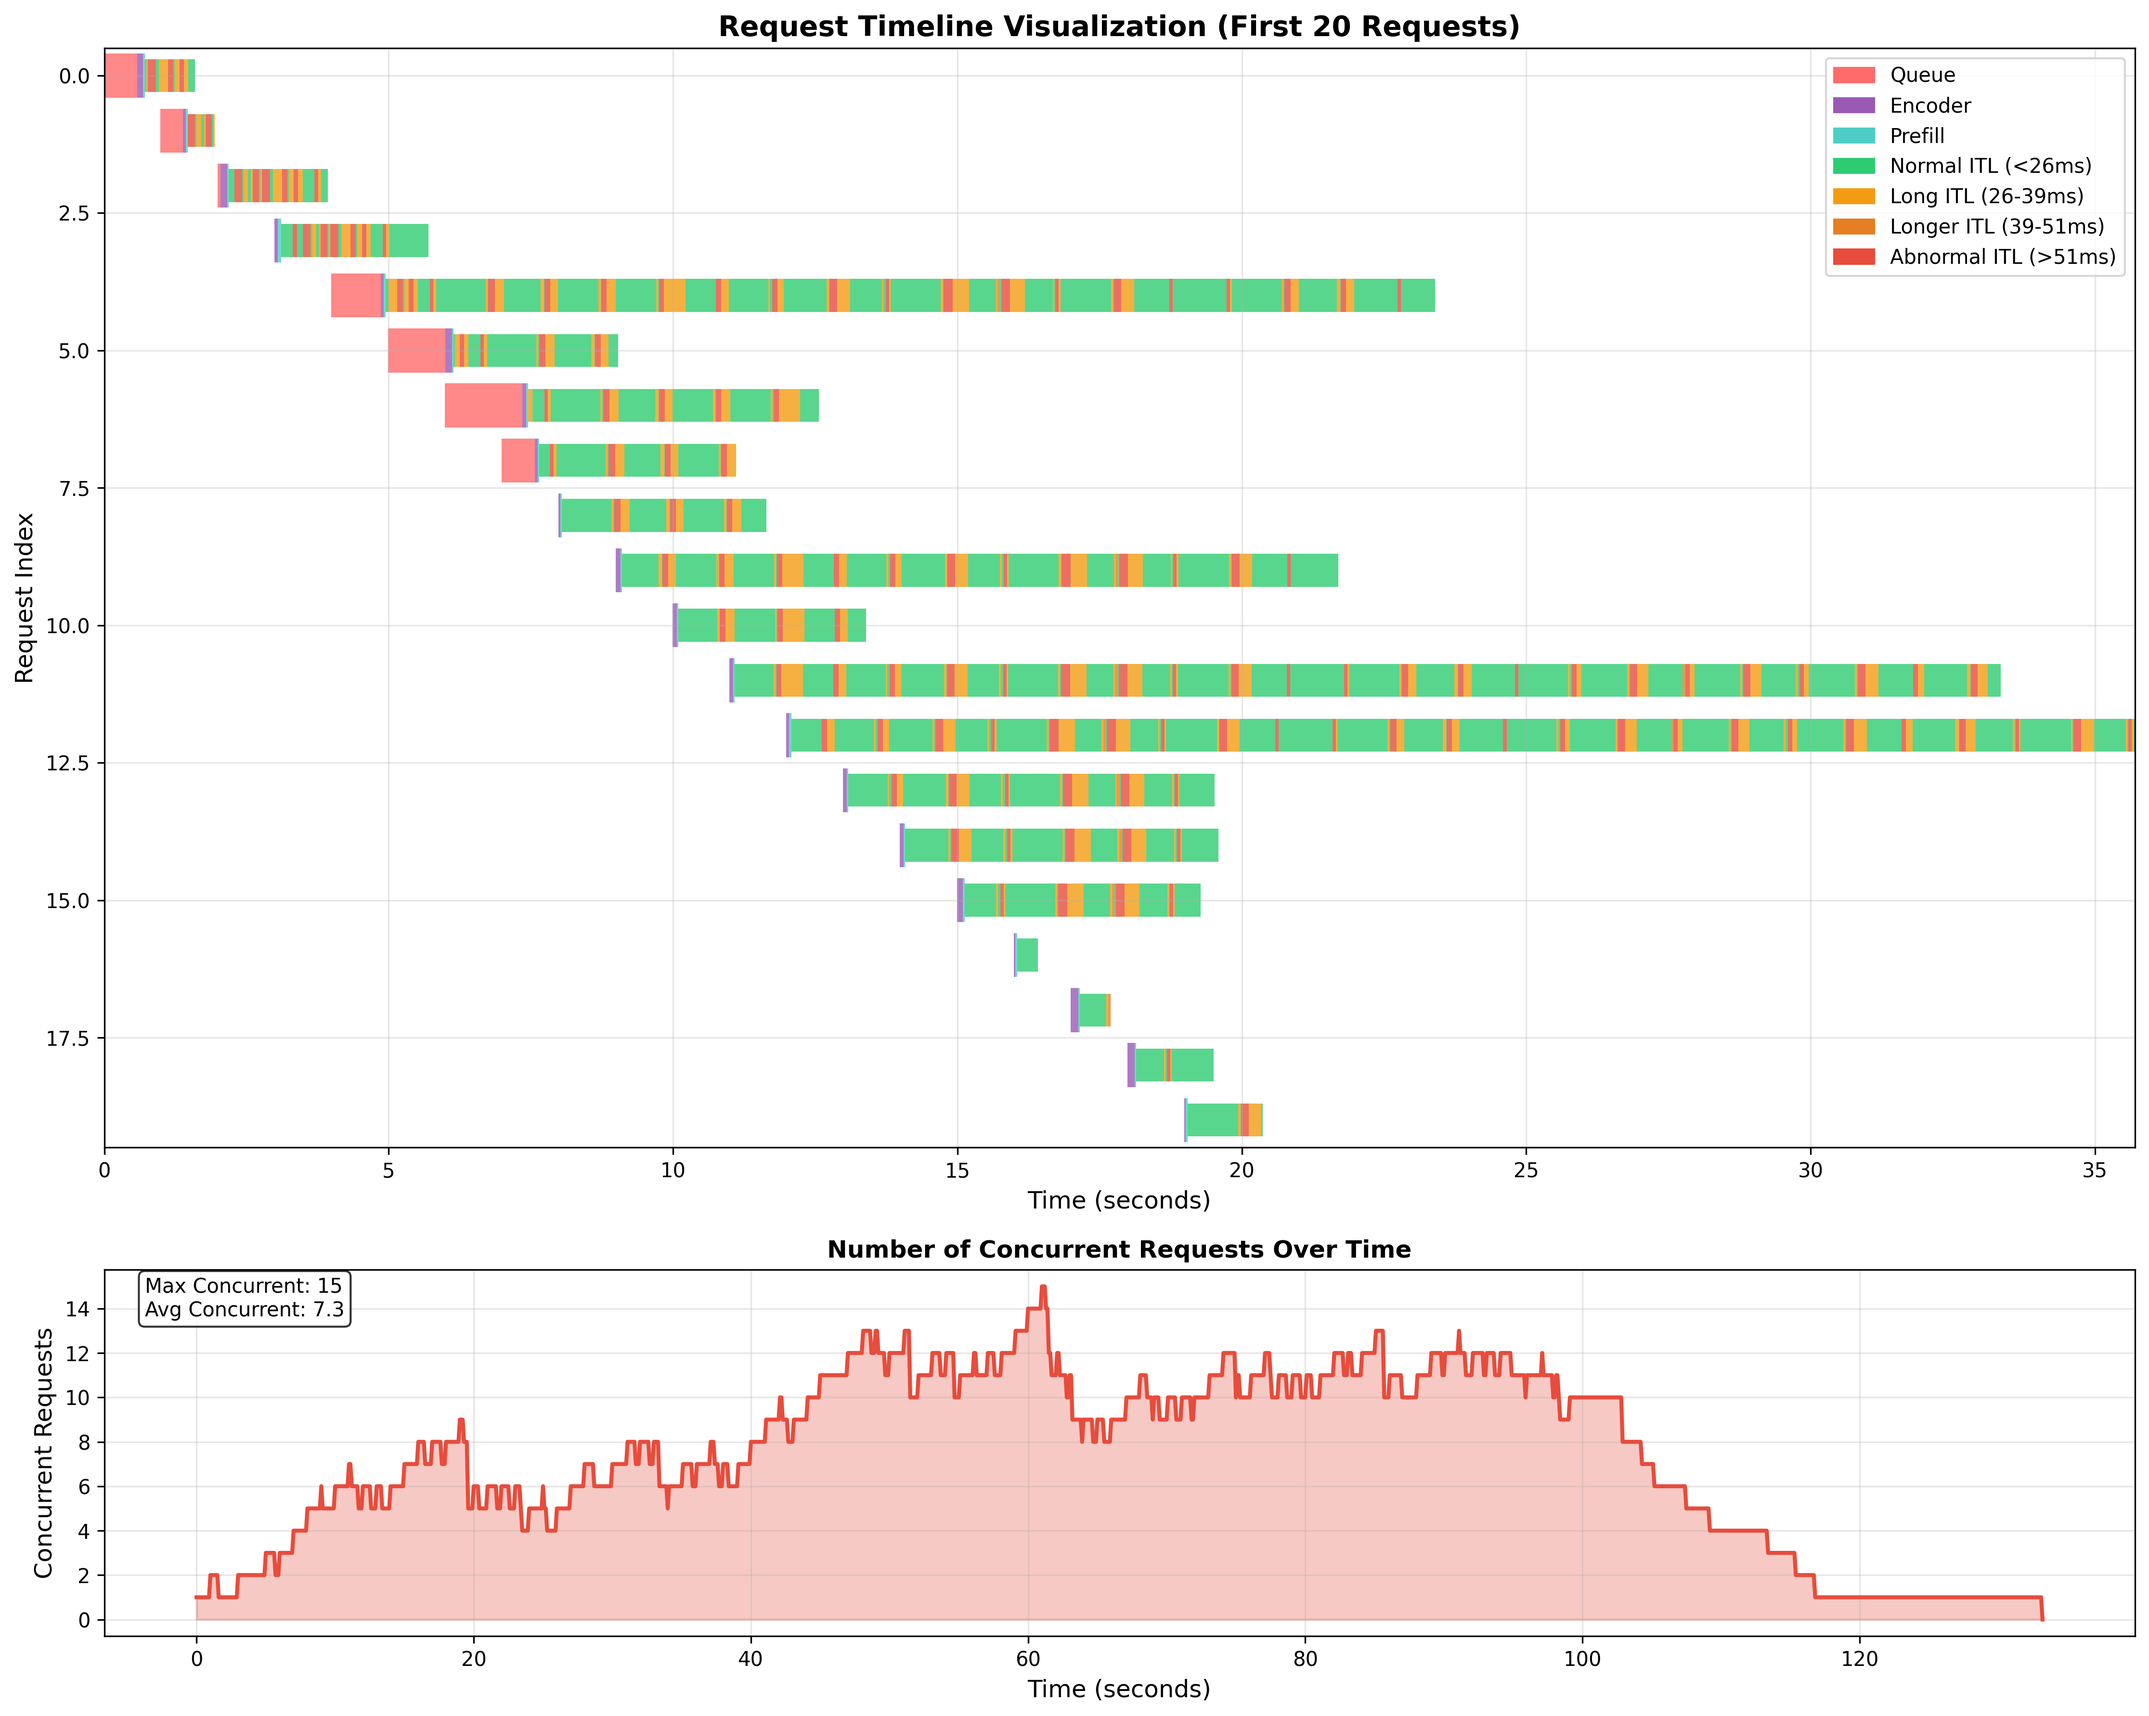
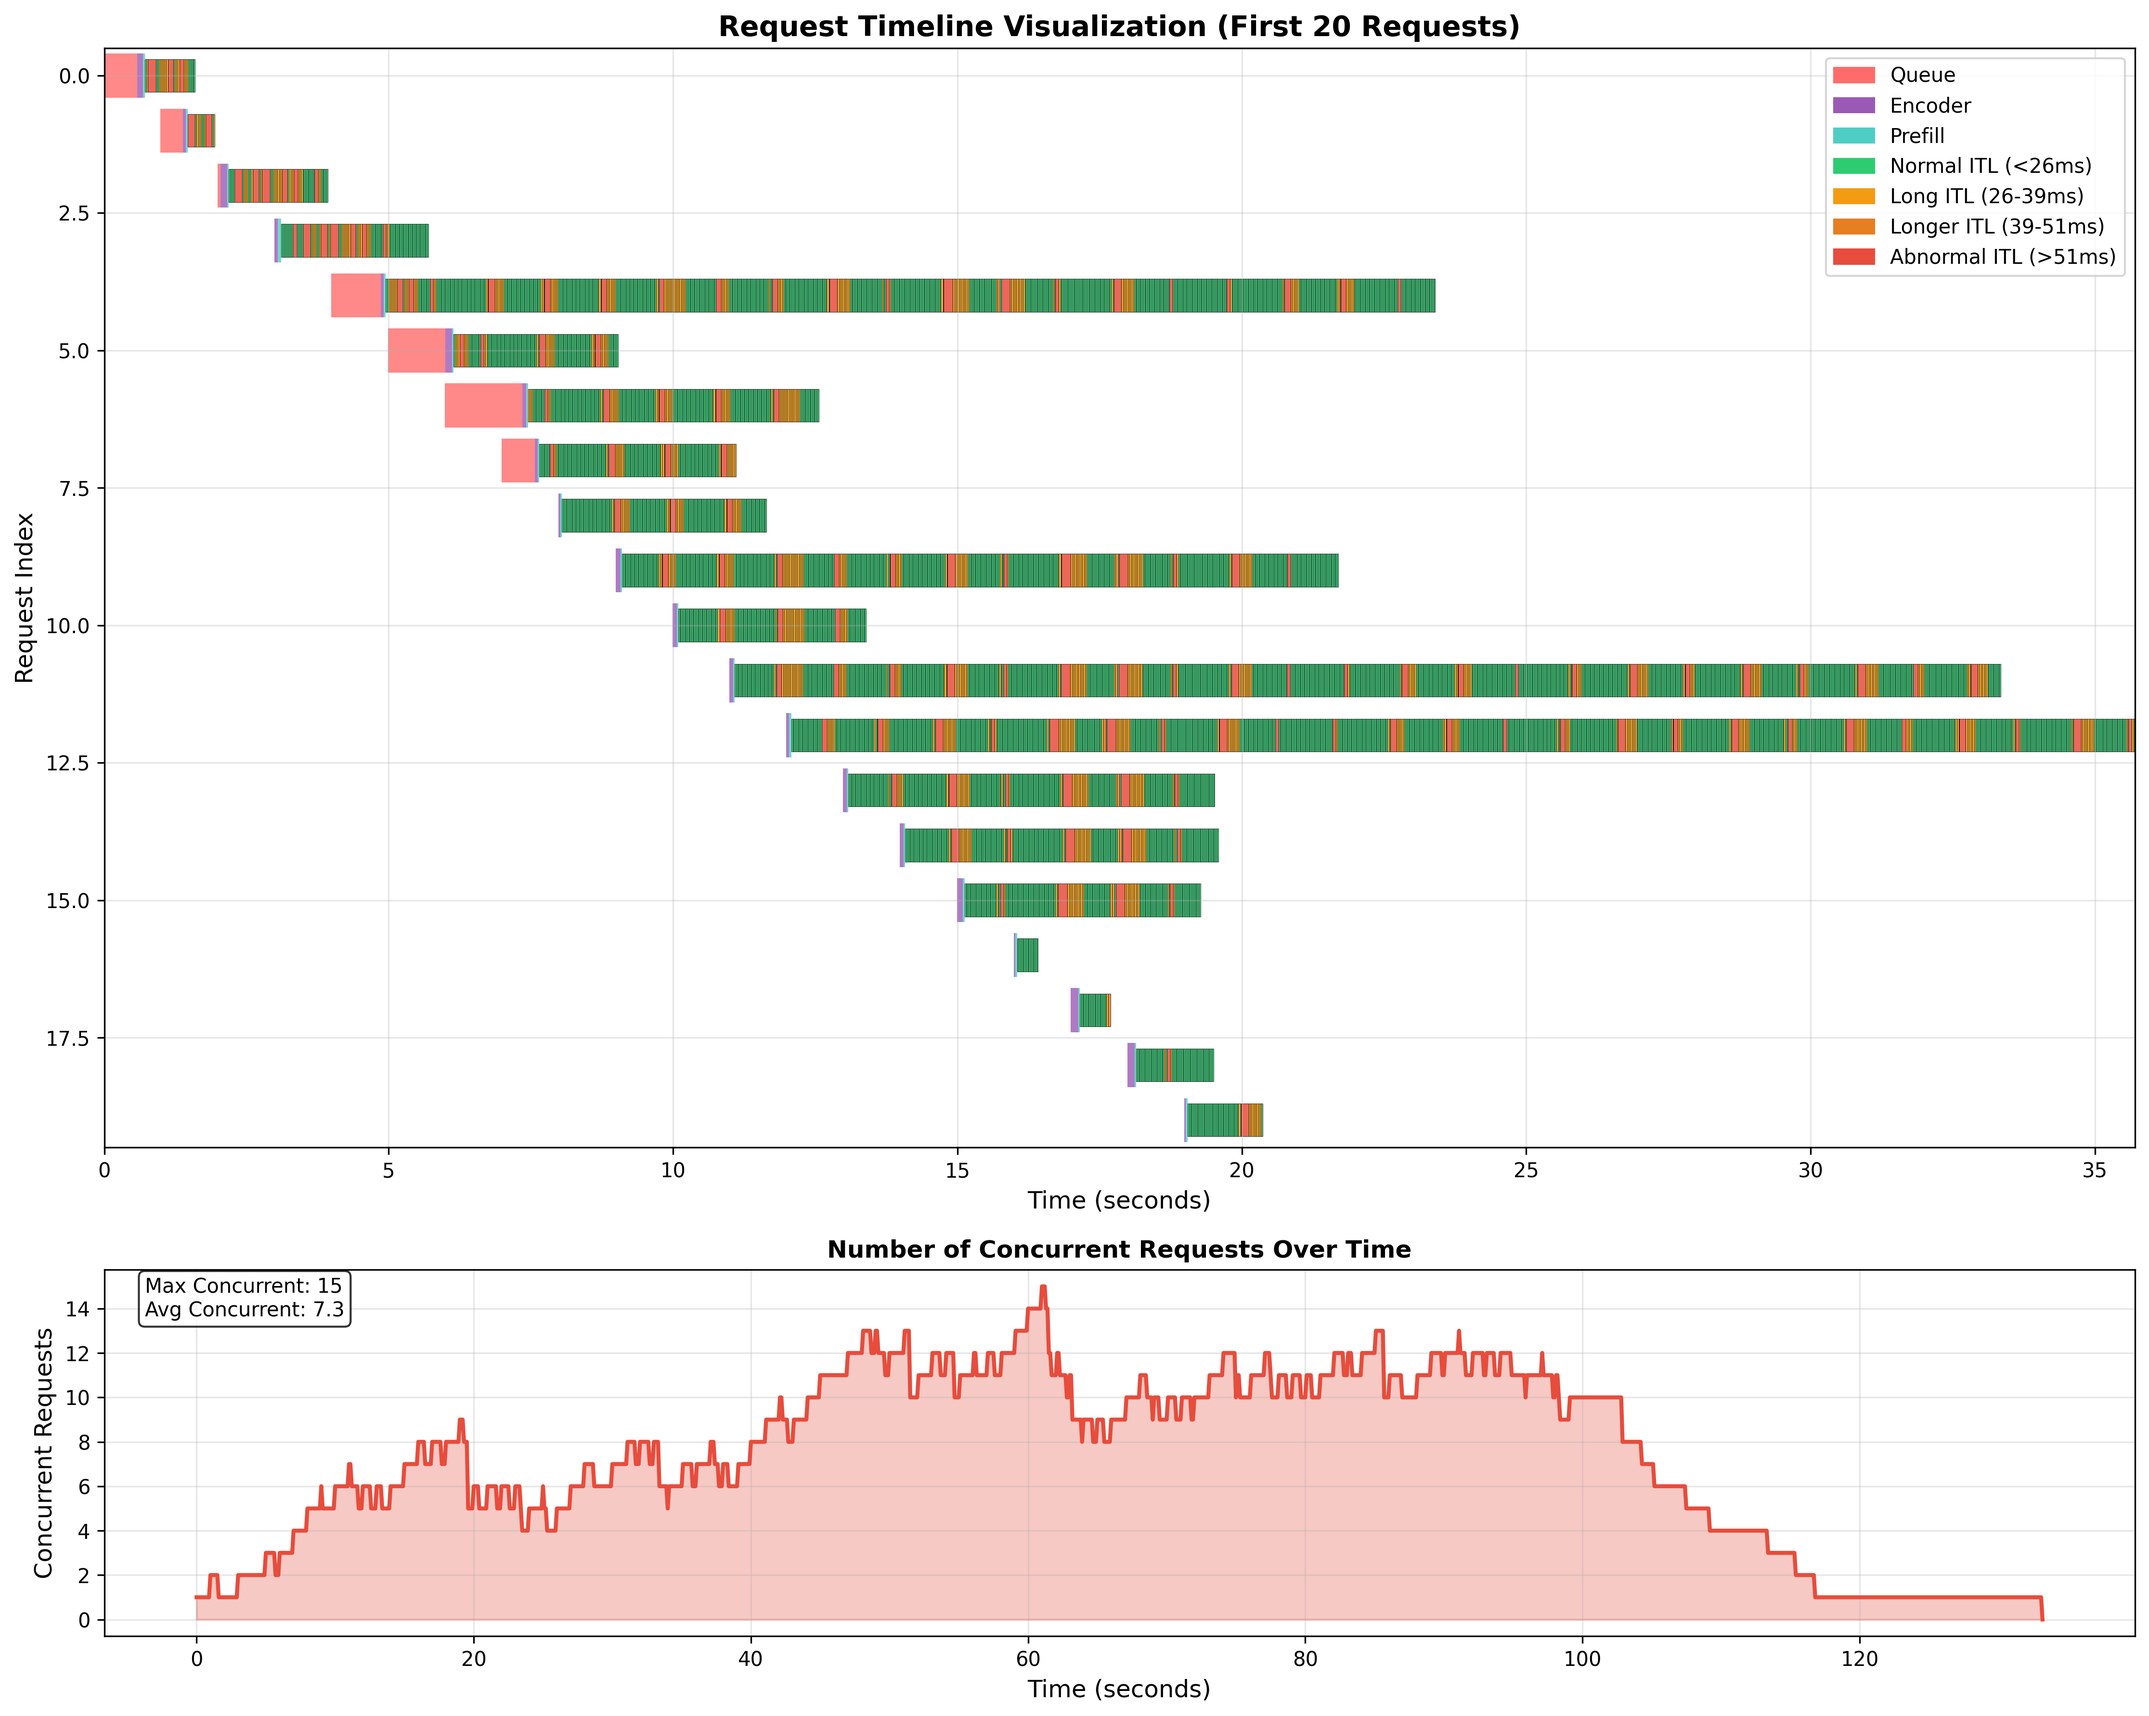
Enhance Gantt chart visualization in `request_timeline_visualizer.py` by adding edge color and adjusting alpha for token rectangles. Update `timeline_gantt.png` to reflect these changes.

diff --git a/vllm_metrics_toolkit/scripts/request_timeline_visualizer.py b/vllm_metrics_toolkit/scripts/request_timeline_visualizer.py
@@ -263,17 +263,21 @@ class RequestTimelineVisualizer:
             
             # Token生成（每个ITL作为单独的段，根据长度用不同颜色）
             prev_time = timeline.prefill_end
-            for j, token_time in enumerate(timeline.token_times):
+            for token_time in timeline.token_times:
                 itl_duration = token_time - prev_time
                 itl_color = self._get_itl_color(itl_duration)
                 
                 token_rect = patches.Rectangle(
                     (start_offset + prev_time, y_pos - 0.3),
                     itl_duration, 0.6,
-                    facecolor=itl_color, alpha=0.8
+                    facecolor=itl_color,
+                    edgecolor=(0, 0, 0, 0.5),
+                    linewidth=0.2,
+                    alpha=0.85
                 )
                 ax1.add_patch(token_rect)
                 prev_time = token_time
+            # 最后一个 token 段已通过边框体现分隔，无需额外线条
         
         # 设置甘特图样式
         ax1.set_xlim(0, max(t.start_time - global_start + t.total_duration for t in display_timelines))
@@ -382,12 +386,12 @@ class RequestTimelineVisualizer:
             
             # 每个Token的ITL（详细显示，根据长度用不同颜色）
             prev_time = timeline.prefill_end
-            for j, token_time in enumerate(timeline.token_times):
+            for token_time in timeline.token_times:
                 itl_duration = token_time - prev_time
                 itl_color = self._get_itl_color(itl_duration)
                 
                 ax.barh(y_pos, itl_duration, left=start_offset + prev_time, height=0.4,
-                       color=itl_color, alpha=0.8)
+                       color=itl_color, edgecolor=(0, 0, 0, 0.5), linewidth=0.2, alpha=0.85)
                 
                 # 在每个token段上标注ITL时间（智能阈值）
                 # 如果ITL超过平均值，就显示时间标注
@@ -398,6 +402,7 @@ class RequestTimelineVisualizer:
                            color='white', weight='bold')
                 
                 prev_time = token_time
+            # 最后一个 token 段已通过边框体现分隔，无需额外线条
             
             # 添加请求ID标签
             ax.text(-0.5, y_pos, f'Req {request_indices[i]}\n{timeline.request_id[:8]}...', 
